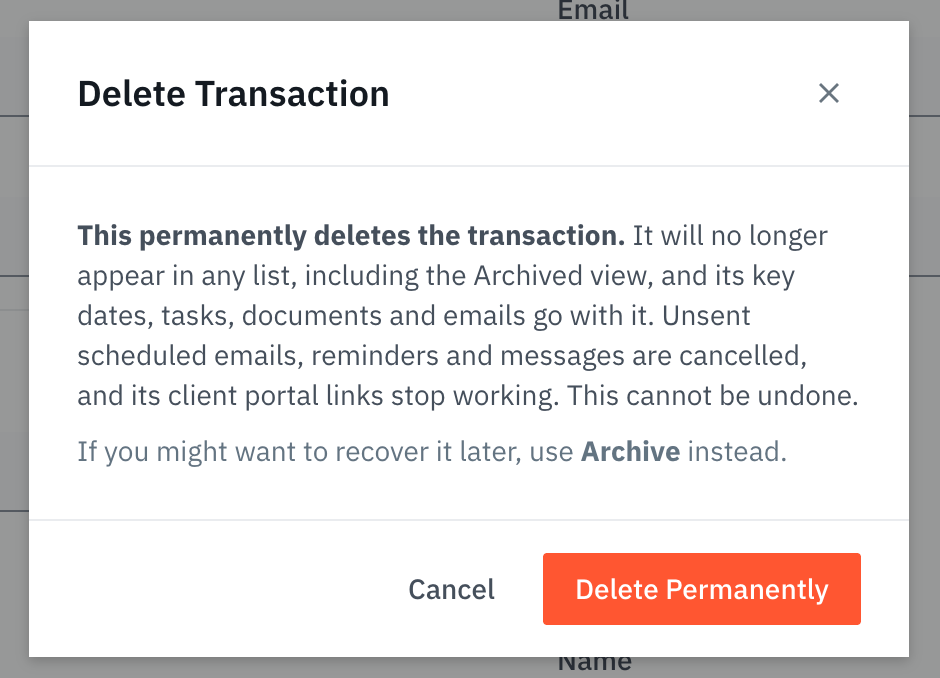
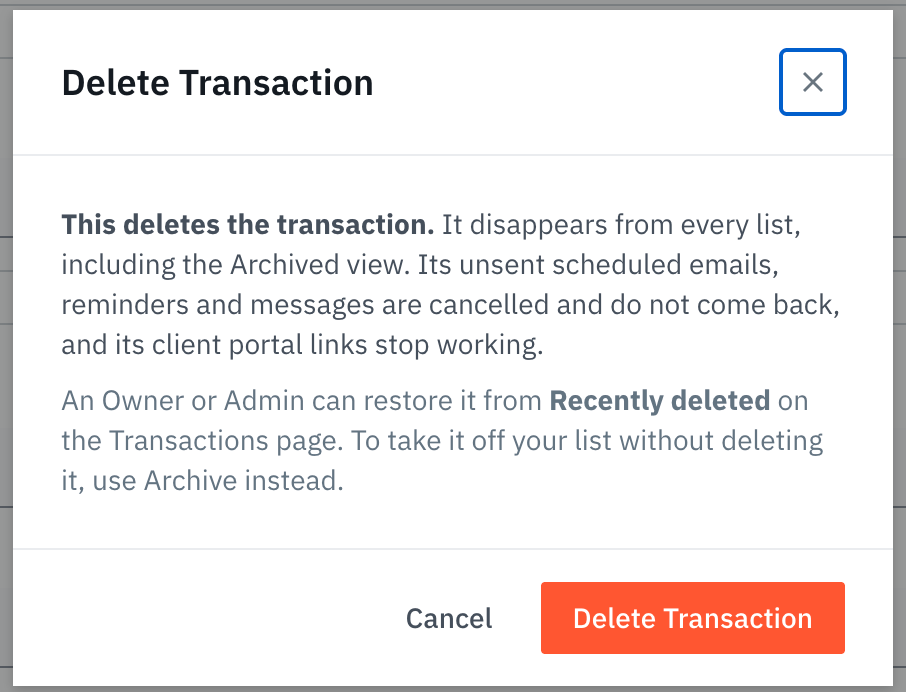
Recently deleted: new delete-dialog screenshot and a screenshot of the Recently deleted page

Changed region(s): [[0.0618, 0.3097, 0.9272, 0.7124], [0.0, 0.0, 1.0, 0.9912], [0.0618, 0.0929, 0.4327, 0.1549]]

diff --git a/static/docs/transactions/restoring-an-archived-transaction.md b/static/docs/transactions/restoring-an-archived-transaction.md
@@ -73,6 +73,8 @@ Deleting hides the deal everywhere in the app, but the deal is kept, with its ta
 2. Find the deal. Each row shows when it was deleted and the status it comes back in.
 3. Click **Restore** and confirm.
 
+![Recently deleted page listing deleted deals, each with the date it was deleted, the status it comes back as, the tasks and documents kept, and a Restore button](/img/transactions/recently-deleted.png)
+
 The deal comes back with the status it had when it was deleted. A deal that was archived when it was deleted comes back to the **Archived** view. For a deal deleted before November 2026, DocJacket did not save its status; the row says so and shows the status it will get instead (your first open status), and you can change it after restoring.
 
 What does not come back: deleting removed the deal's **unsent scheduled emails and reminders** and cancelled its unsent text messages, and the restore does not bring them back. Review-queue suggestions the delete expired stay expired. After the restore, check the deal's scheduled emails and reminders and set up again any you still need.
